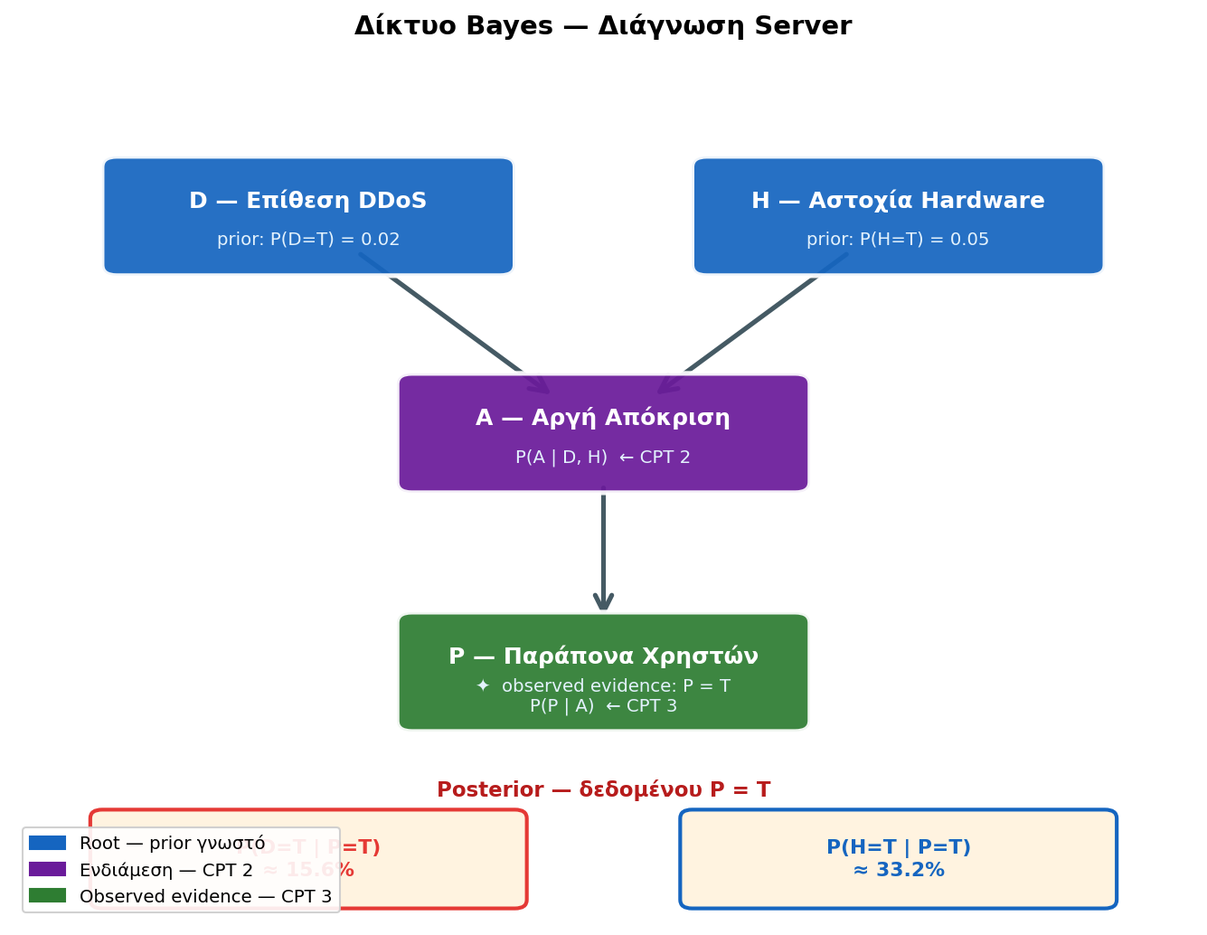
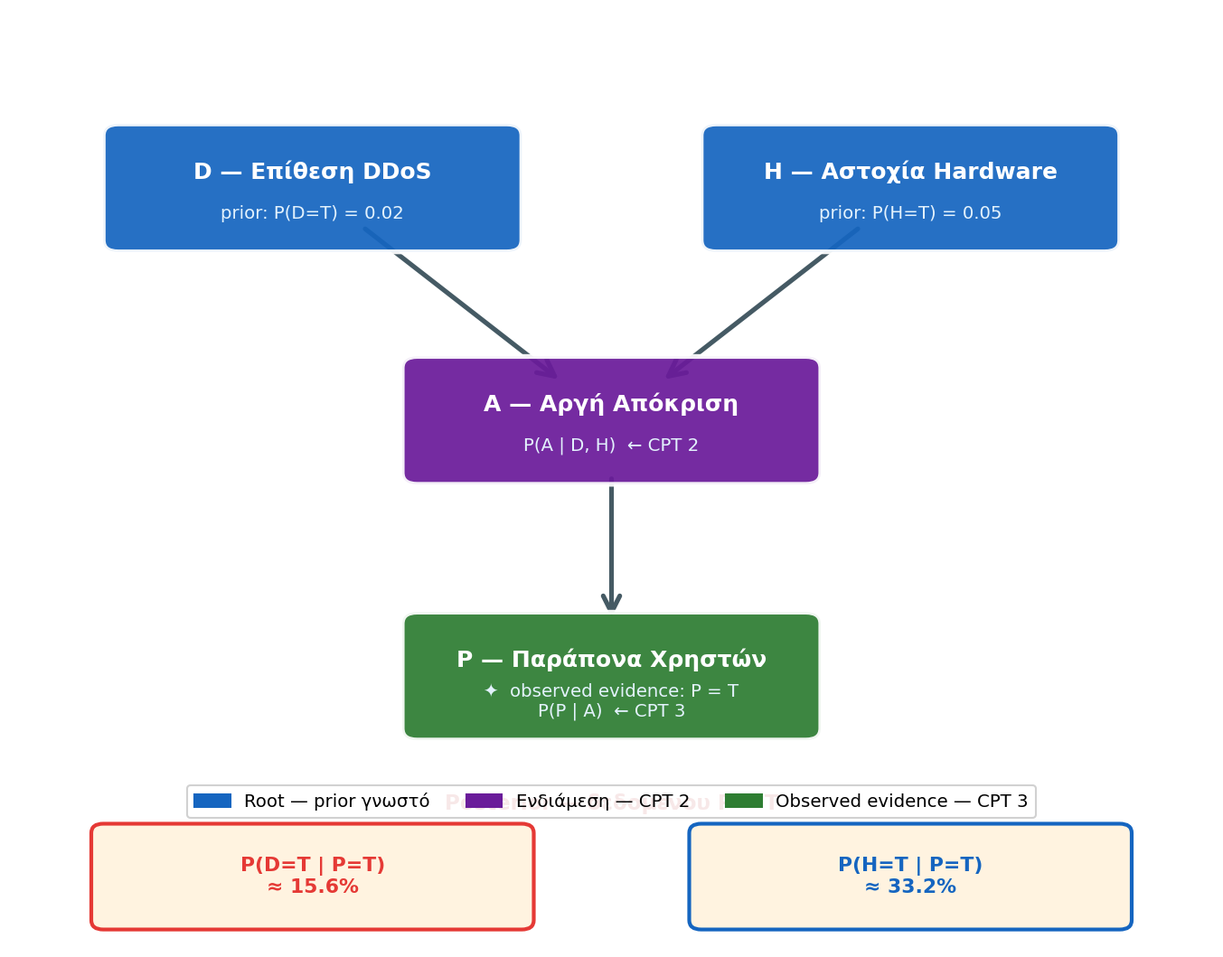
refactor(lecture5): restructure and simplify content
Rewrote sections on Bayes Net learning and inference, removing verbose examples.
Expanded Influence Diagram and Naive Bayes examples.
Removed the glossary and adjusted plot layout.

diff --git a/lectures/gen_server_bn.py b/lectures/gen_server_bn.py
@@ -33,6 +33,7 @@ def arrow(ax, x1, y1, x2, y2, off=0.47):
 # IMAGE 1 — Network graph
 # ══════════════════════════════════════════════════════════════════════════════
 fig1, ax = plt.subplots(figsize=(9, 7))
+fig1.subplots_adjust(left=0.01, right=0.99, top=0.99, bottom=0.01)
 ax.set_xlim(0, 8); ax.set_ylim(0, 8); ax.axis('off')
 
 pos = {'D': (2.0, 6.5), 'H': (6.0, 6.5), 'A': (4.0, 4.5), 'P': (4.0, 2.3)}
@@ -62,18 +63,16 @@ for xi, lbl, col in [
     ax.text(xi, 0.575, lbl, ha='center', va='center',
             fontsize=10.5, color=col, fontweight='bold', zorder=4)
 
+# Legend — top right, away from nodes
 legend = [
     mpatches.Patch(color=C_ROOT,  label='Root — prior γνωστό'),
     mpatches.Patch(color=C_INTER, label='Ενδιάμεση — CPT 2'),
     mpatches.Patch(color=C_OBS,   label='Observed evidence — CPT 3'),
 ]
-ax.legend(handles=legend, loc='lower left', fontsize=9.5,
-          framealpha=0.9, edgecolor='#ccc')
+ax.legend(handles=legend, loc='upper center', fontsize=9.5,
+          framealpha=0.9, edgecolor='#ccc', ncol=3,
+          bbox_to_anchor=(0.5, 0.18))
 
-ax.set_title('Δίκτυο Bayes — Διάγνωση Server', fontsize=14,
-             fontweight='bold', pad=10)
-
-fig1.tight_layout()
 fig1.savefig('lectures_material/server_bn_graph.png', dpi=150, bbox_inches='tight')
 print('Saved: server_bn_graph.png')
 

diff --git a/lectures/lecture5_el.md b/lectures/lecture5_el.md
@@ -949,131 +949,64 @@ $$P(\text{Έγκριση}) = \underbrace{0.90 \times 0.268}_{\text{αν Ρίσκ
 
 | Τομέας | Εφαρμογή |
 |---|---|
-| **Ιατρική** | Διαφορική διάγνωση (π.χ. σύστημα QMR) |
+| **Ιατρική** | Δεδομένων συμπτωμάτων → κατάταξη πιθανών ασθενειών κατά πιθανότητα |
 | **Χρηματοδότηση** | Αξιολόγηση πιστωτικού ρίσκου, ανίχνευση απάτης |
 | **Βιομηχανία** | Διάγνωση βλαβών, προγνωστική συντήρηση |
 | **ΣΥΑ** | Λήψη αποφάσεων υπό αβεβαιότητα με ενσωμάτωση νέων πληροφοριών |
 
 ---
 
-<!-- _class: xsmall -->
+<!-- _class: xxsmall -->
 # Μάθηση Δικτύων Bayes
 
-Πώς κατασκευάζεται ένα BN στην πράξη;
+Για να χρησιμοποιήσουμε ένα BN πρέπει να απαντήσουμε δύο ερωτήματα: **ποιοι κόμβοι συνδέονται;** και **με ποιες τιμές CPT;**
 
-<div class="columns">
-<div>
+**Μάθηση Δομής** — ποιοι κόμβοι συνδέονται και με ποια κατεύθυνση (βέλη):
 
-### Μάθηση Δομής (Structure Learning)
+| Μέθοδος | Ετυμολογία | Πώς λειτουργεί | Πότε χρησιμοποιείται |
+|---|---|---|---|
+| **Εμπειρογνώμονας** | — | Ο ειδικός σχεδιάζει χειροκίνητα τον γράφο | Όταν η αιτιότητα είναι γνωστή (π.χ. ιατρική) |
+| **Score-based** | *score* = βαθμολογία δομής | Δοκιμάζει δομές, κρατά αυτή με τη μεγαλύτερη βαθμολογία (π.χ. BIC = πόσο καλά εξηγεί τα δεδομένα) | Όταν έχουμε πολλά δεδομένα |
+| **Constraint-based** | *constraint* = περιορισμός ανεξαρτησίας | Ελέγχει ποιες μεταβλητές είναι στατιστικά ανεξάρτητες και χτίζει τον γράφο χωρίς βέλη μεταξύ τους | Μεγάλα datasets με άγνωστες σχέσεις |
 
-| Μέθοδος | Περιγραφή |
-|---------|-----------|
-| **Εμπειρογνώμονας** | Χειροκίνητος σχεδιασμός γράφου |
-| **Score-based** | Μεγιστοποίηση σκορ (π.χ. BIC) |
-| **Constraint-based** | Έλεγχοι ανεξαρτησίας (π.χ. PC) |
+**Μάθηση Παραμέτρων** — εφόσον η δομή είναι γνωστή, εκτίμηση των τιμών CPT από δεδομένα:
 
-</div>
-<div>
+| Μέθοδος | Ετυμολογία | Πώς λειτουργεί |
+|---|---|---|
+| **MLE** | *Maximum Likelihood Estimation* — εκτίμηση μέγιστης πιθανοφάνειας | Μετράει συχνότητες: από 1.000 πελάτες με κακό ιστορικό, οι 200 είχαν υψηλή πιστοληπτική → CPT = 0.20 |
+| **Bayesian estimation** | Εκτίμηση με τον κανόνα Bayes | Συνδυάζει τις συχνότητες των δεδομένων με prior εκτίμηση του ειδικού — χρήσιμο όταν τα δεδομένα είναι λίγα |
+| **EM algorithm** | *Expectation-Maximization* — εναλλαγή εκτίμησης και μεγιστοποίησης | Συμπληρώνει εκτιμητικά τις ελλιπείς εγγραφές και επαναεκτιμά τις CPT, επαναληπτικά |
 
-### Μάθηση Παραμέτρων (Parameter Learning)
-
-| Μέθοδος | Περιγραφή |
-|---------|-----------|
-| **MLE** | Μέγιστη πιθανοφάνεια από δεδομένα |
-| **Bayesian estimation** | Συνδυασμός prior + δεδομένων |
-| **EM algorithm** | Όταν υπάρχουν ελλιπή δεδομένα |
-
-</div>
-</div>
-
-> Στην πράξη, συχνά ο ειδικός ορίζει τη **δομή** και τα δεδομένα εκπαιδεύουν τις **παραμέτρους**. *(Koller & Friedman, 2009; Scanagatta et al., 2019)*
+> Στην πράξη: ο ειδικός ορίζει τη **δομή** (ποιο επηρεάζει τι), τα δεδομένα εκπαιδεύουν τις **παραμέτρους** (κατά πόσο). *(Koller & Friedman, 2009)*
 
 ---
 
-<!-- _class: small -->
+<!-- _class: xxsmall -->
 # Αλγόριθμοι Συμπερασμού σε Δίκτυα Bayes
 
-Πώς υπολογίζουμε τις posterior πιθανότητες σε ένα δίκτυο με πολλούς κόμβους;
+Στο παράδειγμα πιστωτικού ρίσκου υπολογίσαμε τις posteriors χειροκίνητα (5 κόμβοι, 4 συνδυασμοί). Σε πραγματικά δίκτυα με δεκάδες κόμβους και εκατοντάδες συνδυασμούς αυτό είναι αδύνατο — χρειαζόμαστε αλγορίθμους.
 
-<div class="columns">
-<div>
+**Ακριβής Συμπερασμός** — δίνει την εξακριβωμένη απάντηση:
 
-### Ακριβής Συμπερασμός (Exact)
+| Αλγόριθμος | Ιδέα | Πότε χρησιμοποιείται |
+|---|---|---|
+| **Variable Elimination** | Αθροίζει τους κόμβους έναν-έναν με τη σωστή σειρά, μειώνοντας βήμα-βήμα το πρόβλημα — ακριβώς αυτό κάναμε χειροκίνητα στο Βήμα 2 | Μικρά/μεσαία δίκτυα, ένα ερώτημα |
+| **Junction Tree** | Ανασχηματίζει το δίκτυο σε δέντρο, υπολογίζει μία φορά και επαναχρησιμοποιεί τα ενδιάμεσα αποτελέσματα | Πολλαπλά ερωτήματα στο ίδιο δίκτυο |
 
-**Variable Elimination:**
-* Αθροίζουμε (marginalize) μεταβλητές μία-μία
-* Πολυπλοκότητα εξαρτάται από το **treewidth** του γράφου
-* Αποδοτικό για μικρά/μεσαία δίκτυα
+Ο ακριβής συμπερασμός γίνεται βαρύς όσο μεγαλώνει το δίκτυο — σε πυκνά δίκτυα ο χρόνος εκτοξεύεται εκθετικά.
 
-**Junction Tree:**
-* Μετατρέπει τον DAG σε δέντρο «συστάδων»
-* Ιδανικό για πολλαπλά ερωτήματα στο ίδιο δίκτυο
+**Προσεγγιστικός Συμπερασμός** — καλή εκτίμηση όταν ο ακριβής είναι πρακτικά αδύνατος:
 
-</div>
-<div>
+| Αλγόριθμος | Ιδέα |
+|---|---|
+| **Monte Carlo sampling** | Παράγει χιλιάδες τυχαία σενάρια (τιμές για όλους τους κόμβους) και μετράει πόσο συχνά εμφανίζεται το αποτέλεσμα που ζητάμε |
+| **Likelihood weighting** | Όπως το Monte Carlo, αλλά τα σενάρια που συμφωνούν με το evidence λαμβάνουν μεγαλύτερο βάρος — πιο αποδοτικό |
+| **Loopy Belief Propagation** | Κάθε κόμβος ανταλλάσει "μηνύματα" με τους γείτονές του επαναληπτικά μέχρι οι εκτιμήσεις να σταθεροποιηθούν |
 
-### Προσεγγιστικός Συμπερασμός (Approximate)
-
-**Χρήση:** Όταν το δίκτυο είναι πολύ μεγάλο για ακριβή υπολογισμό.
-
-| Μέθοδος | Ιδέα |
-|---------|------|
-| **Monte Carlo sampling** | Δειγματοληψία τυχαίων σεναρίων |
-| **Likelihood weighting** | Σταθμισμένη δειγματοληψία βάσει evidence |
-| **Loopy Belief Propagation** | Επαναληπτική ανταλλαγή μηνυμάτων μεταξύ κόμβων |
-
-> Τα σύγχρονα εργαλεία (pgmpy, BayesNet, Netica) επιλέγουν αυτόματα τον κατάλληλο αλγόριθμο. *(Darwiche, 2009)*
-
-</div>
-</div>
+> Στην πράξη δεν επιλέγουμε αλγόριθμο χειροκίνητα — εργαλεία όπως pgmpy και Netica επιλέγουν αυτόματα. *(Darwiche, 2009)*
 
 ---
 
-<!-- _class: xxsmall -->
-# Παράδειγμα BN Βήμα-Βήμα: Διάγνωση Δικτύου
-
-**Σενάριο:** Ένα απλό BN για διάγνωση προβλήματος σε server.
-
-
-<img src="../lectures_material/server_bn_graph.png" alt="Δίκτυο Bayes — Διάγνωση Server" height="70%">
-
-**Ερώτηση:** Αν λάβουμε παράπονα (P=T), ποια η πιθανότητα DDoS vs. Hardware αστοχία;
-
----
-
-# Παράδειγμα BN — Πίνακες CPT
-
-
-
-<img src="../lectures_material/server_bn_cpts.png" alt="CPT πίνακες" height="70%">
-
----
-
-<!-- _class: xxsmall -->
-# Παράδειγμα BN — Υπολογισμός
-
-Εφαρμόζουμε **Bayesian updating** με evidence P = T:
-
-**Βήμα 1 — Joint probability:** Για κάθε συνδυασμό (D, H, A):
-$$P(D, H, A, P) = P(D) \cdot P(H) \cdot P(A \mid D, H) \cdot P(P \mid A)$$
-
-**Βήμα 2 — Marginalize:** Αθροίζουμε πάνω σε A για κάθε (D, H):
-
-| D | H | P(D,H,P=T) | Σχόλιο |
-|---|---|------------|--------|
-| F | F | 0.98 × 0.95 × (0.01 × 0.85 + 0.99 × 0.05) = **0.0542** | Κανένα πρόβλημα |
-| F | T | 0.98 × 0.05 × (0.80 × 0.85 + 0.20 × 0.05) = **0.0338** | Μόνο hardware |
-| T | F | 0.02 × 0.95 × (0.90 × 0.85 + 0.10 × 0.05) = **0.0155** | Μόνο DDoS |
-| T | T | 0.02 × 0.05 × (0.95 × 0.85 + 0.05 × 0.05) = **0.0008** | Και τα δύο |
-
-**Βήμα 3 — Normalize:** P(P=T) = 0.0542 + 0.0338 + 0.0155 + 0.0008 = **0.1043**
-
-$$P(D{=}T \mid P{=}T) = \frac{0.0155 + 0.0008}{0.1043} \approx 15.6\%$$
-$$P(H{=}T \mid P{=}T) = \frac{0.0338 + 0.0008}{0.1043} \approx 33.2\%$$
-
-> **Ερμηνεία:** Με παράπονα χρηστών, η αστοχία hardware είναι **2× πιθανότερη** από DDoS — αντανακλά το υψηλότερο prior (5% vs 2%).
-
----
 
 # Εφαρμογή στην Τεχνητή Νοημοσύνη: Φίλτρα Spam (Naïve Bayes)
 <!-- _class: xsmall -->
@@ -1096,12 +1029,39 @@ $$P(\text{Spam} | \text{Λέξεις}) = \frac{P(\text{Λέξεις} | \text{Spa
 <!-- _class: small -->
 # Δίκτυα Αποφάσεων (Influence Diagrams)
 
-Επέκταση των BN για **λήψη αποφάσεων** — προσθέτουν κόμβους απόφασης και χρησιμότητας.
+Ένα BN περιγράφει **τι είναι πιθανό** — αλλά δεν απαντά στο ερώτημα **τι πρέπει να κάνω**. Τα Influence Diagrams επεκτείνουν το BN με δύο νέους τύπους κόμβων:
 
+| Κόμβος | Σχήμα | Ρόλος |
+|---|---|---|
+| **Τυχαίος** (chance) | Έλλειψη | Αβέβαιο γεγονός — όπως στο κανονικό BN |
+| **Απόφασης** (decision) | Ορθογώνιο | Επιλογή που ελέγχει ο αποφασίζων (π.χ. ποια θεραπεία) |
+| **Χρησιμότητας** (utility) | Ρόμβος | Αριθμητική αξία κάθε έκβασης (π.χ. ποιότητα ζωής, κόστος) |
 
-<img src="../lectures_material/influence_diagram.png" alt="Influence Diagram — Ιατρική Θεραπεία" height="70%">
+Ο στόχος: επιλέξτε την απόφαση που **μεγιστοποιεί την αναμενόμενη χρησιμότητα** (EU = Σ πιθανότητα × αξία).
 
-> Επιλέγεται η θεραπεία που **μεγιστοποιεί** την αναμενόμενη χρησιμότητα. Τα Influence Diagrams ενοποιούν **αβεβαιότητα + αποφάσεις + προτιμήσεις** σε ένα μοντέλο. *(Kjaerulff & Madsen, 2013)*
+<img src="../lectures_material/influence_diagram.png" alt="Influence Diagram — Ιατρική Θεραπεία" height="62%">
+
+---
+
+<!-- _class: xsmall -->
+# Δίκτυα Αποφάσεων — Ανάγνωση του παραδείγματος
+
+**Σενάριο:** Ασθενής με πιθανή ασθένεια (P(Ασθένεια)=0.30). Έχουμε αποτέλεσμα τεστ. Τι θεραπεία επιλέγουμε;
+
+**Τι δίνεται:**
+* P(Ασθένεια = T) = 0.30 — prior από επιδημιολογικά δεδομένα
+* P(Τεστ | Ασθένεια) — CPT: πόσο αξιόπιστο είναι το τεστ
+* Πίνακας χρησιμότητας: αξία κάθε συνδυασμού (θεραπεία × πραγματική κατάσταση)
+
+**Τι υπολογίζεται — Αναμενόμενη Χρησιμότητα (EU) για κάθε επιλογή:**
+
+| Επιλογή | Υπολογισμός | EU |
+|---|---|---|
+| Θεραπεία Α | 0.30×80 + 0.70×(−10) | **+17** |
+| Θεραπεία Β | 0.30×60 + 0.70×(+5) | **+21.5** ✓ |
+| Χωρίς θεραπεία | 0.30×(−50) + 0.70×10 | **−8** |
+
+> Επιλέγεται η **Θεραπεία Β** γιατί έχει τη μεγαλύτερη EU — ακόμα κι αν δεν έχει την υψηλότερη αξία στην καλύτερη περίπτωση.
 
 ---
 
@@ -1175,15 +1135,22 @@ $$P(C \mid x_1, \ldots, x_n) \propto P(C) \prod_{i=1}^{n} P(x_i \mid C)$$
 
 **Παράδειγμα — Spam Detection:**
 
-| Λέξη | P(λέξη \| Spam) | P(λέξη \| Ham) |
-|------|-----------------|----------------|
-| "δωρεάν" | 0.80 | 0.05 |
-| "συνάντηση" | 0.10 | 0.60 |
-| "κέρδισε" | 0.70 | 0.02 |
+Εκπαιδεύουμε με εκατομμύρια emails που έχουν ήδη σημανθεί ως Spam ή Ham (κανονικό). Μετράμε συχνότητες:
 
-* Είναι ουσιαστικά ένα **BN με πολύ απλή δομή** (κλάση → χαρακτηριστικά)
-* Μαθαίνει τα P(x|C) **αυτόματα** από labeled δεδομένα — δεν χρειάζεται εμπειρογνώμονας
-* Παρά την «αφελή» υπόθεση ανεξαρτησίας, δουλεύει εκπληκτικά καλά στην πράξη
+| Λέξη | P(λέξη \| Spam) | P(λέξη \| Ham) | Ερμηνεία |
+|------|-----------------|----------------|----------|
+| "δωρεάν" | 0.80 | 0.05 | Από τα Spam emails, το 80% περιέχει τη λέξη — από τα Ham μόνο 5% |
+| "συνάντηση" | 0.10 | 0.60 | Σπάνια σε Spam, συχνή σε κανονικά emails |
+| "κέρδισε" | 0.70 | 0.02 | Ισχυρή ένδειξη Spam |
+
+Για νέο email που περιέχει "δωρεάν" και "κέρδισε":
+$$P(\text{Spam} | \text{email}) \propto P(\text{Spam}) \cdot 0.80 \cdot 0.70 = 0.50 \cdot 0.56 = 0.28$$
+$$P(\text{Ham} | \text{email}) \propto P(\text{Ham}) \cdot 0.05 \cdot 0.02 = 0.50 \cdot 0.001 = 0.0005$$
+
+Κανονικοποίηση → P(Spam) ≈ **99.8%** → το email κατατάσσεται ως Spam.
+
+* Μαθαίνει τα P(λέξη|κλάση) **αυτόματα** από δεδομένα — δεν χρειάζεται εμπειρογνώμονας
+* Παρά την «αφελή» υπόθεση ανεξαρτησίας μεταξύ λέξεων, δουλεύει εκπληκτικά καλά στην πράξη
 
 
 
@@ -1274,58 +1241,3 @@ $$P(C \mid x_1, \ldots, x_n) \propto P(C) \prod_{i=1}^{n} P(x_i \mid C)$$
 - Kahraman, C. et al. (2022). Fuzzy Sets and Extensions: Where We Stand and Where We Go. *Expert Systems with Applications*, 209, 118272.
 - Norouzi, A. et al. (2023). Neuro-fuzzy systems in engineering: A survey of applications and trends. *Engineering Applications of AI*, 123, 106396.
 
----
-
-<!-- _class: xxsmall -->
-# Γλωσσάριο — Αγγλικοί / Ελληνικοί Όροι
-
-
-<div class="columns">
-
-<div>
-
- Ασαφής Λογική
-
-| Αγγλικός Όρος | Ελληνικός Όρος |
-|---|---|
-| Fuzzy Logic | Ασαφής Λογική |
-| Fuzzy Set | Ασαφές Σύνολο |
-| Membership Function | Συνάρτηση Συμμετοχής |
-| Degree of Membership | Βαθμός Συμμετοχής |
-| Linguistic Variable | Γλωσσική Μεταβλητή |
-| Linguistic Term / Label | Γλωσσική Τιμή |
-| Fuzzification | Ασαφοποίηση |
-| Defuzzification | Αποασαφοποίηση |
-| Fuzzy Inference System (FIS) | Σύστημα Ασαφούς Συμπερασμού |
-| Centroid Method | Μέθοδος Κεντροειδούς |
-| Universe of Discourse | Σύμπαν Λόγου |
-| Crisp Value / Output | Σαφής Τιμή / Έξοδος |
-| Neuro-Fuzzy | Νευρο-Ασαφής |
-
-</div>
-
-<div>
-
-Δίκτυα Bayes & Γενικά
-
-| Αγγλικός Όρος | Ελληνικός Όρος |
-|---|---|
-| Stochastic Uncertainty | Στοχαστική Αβεβαιότητα |
-| Linguistic Uncertainty | Γλωσσική Αβεβαιότητα |
-| Bayesian Network | Δίκτυο Bayes |
-| Directed Acyclic Graph (DAG) | Κατευθυνόμενος Ακυκλικός Γράφος |
-| Conditional Probability Table (CPT) | Πίνακας Δεσμευμένων Πιθανοτήτων |
-| Prior Probability | Αρχική Πιθανότητα |
-| Posterior Probability | Εκ των Υστέρων Πιθανότητα |
-| Likelihood | Πιθανοφάνεια |
-| Evidence | Στοιχεία / Ενδείξεις |
-| Inference | Συμπερασμός |
-| Influence Diagram | Διάγραμμα Επιρροής |
-| Decision Node | Κόμβος Απόφασης |
-| Utility Node | Κόμβος Χρησιμότητας |
-| Knowledge-Driven | Βασισμένο σε Γνώση |
-| Data-Driven | Βασισμένο σε Δεδομένα |
-
-</div>
-
-</div>
